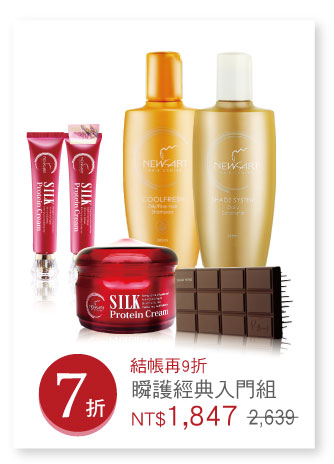
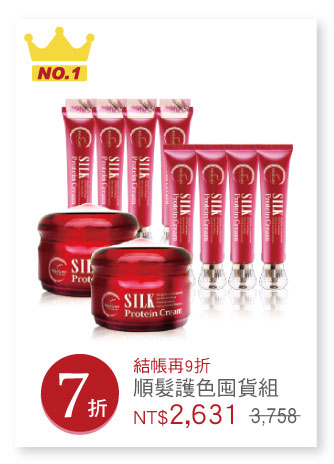
activity_1061106
1. 全面7折 組合商品換圖換網址

diff --git a/activity/js/header_v2.js b/activity/js/header_v2.js
@@ -55,7 +55,7 @@ $(function(){
 $(function(){
   var discount_obj = {
                         "gift_box_1" : {
-                                       "href_path" : "https://goo.gl/yuLtPr",
+                                       "href_path" : "https://goo.gl/FFqPNL",
                                        "img_path" : "images/1.jpg"
                                       },
                         "gift_box_2" : {
@@ -63,39 +63,39 @@ $(function(){
                                        "img_path" : "images/2.jpg"
                                       },
                         "gift_box_3" : {
-                                       "href_path" : "https://goo.gl/WrwKcr",
+                                       "href_path" : "https://goo.gl/XPRDhJ",
                                        "img_path" : "images/3.jpg"
                                       },
                         "gift_box_4" : {
-                                       "href_path" : "https://goo.gl/FFqPNL",
+                                       "href_path" : "https://goo.gl/S1qaQQ",
                                        "img_path" : "images/4.jpg"
                                       },
                         "gift_box_5" : {
-                                       "href_path" : "https://goo.gl/S1qaQQ",
-                                       "img_path" : "images/5.jpg"
+                                       "href_path" : "https://goo.gl/R8hLX9",
+                                       "img_path" : "images/5.png"
                                       },
                         "gift_box_6" : {
-                                       "href_path" : "https://goo.gl/mVgkrq",
-                                       "img_path" : "images/6.jpg"
+                                       "href_path" : "https://goo.gl/5tnQUa",
+                                       "img_path" : "images/6.png"
                                       },
                         "gift_box_7" : {
-                                       "href_path" : "https://goo.gl/UrFDBN",
+                                       "href_path" : "https://goo.gl/mVgkrq",
                                        "img_path" : "images/7.jpg"
                                       },
                         "gift_box_8" : {
-                                       "href_path" : "https://goo.gl/AZf4N6",
+                                       "href_path" : "https://goo.gl/UrFDBN",
                                        "img_path" : "images/8.jpg"
                                       },
                         "gift_box_9" : {
-                                       "href_path" : "https://goo.gl/THmvzV",
+                                       "href_path" : "https://goo.gl/yuLtPr",
                                        "img_path" : "images/9.jpg"
                                       },
                         "gift_box_10" : {
-                                       "href_path" : "https://goo.gl/sFh1sv",
+                                       "href_path" : "https://goo.gl/AZf4N6",
                                        "img_path" : "images/10.jpg"
                                       },
                         "gift_box_11" : {
-                                       "href_path" : "https://goo.gl/XPRDhJ",
+                                       "href_path" : "https://goo.gl/sFh1sv",
                                        "img_path" : "images/11.jpg"
                                       },
                         "gift_box_12" : {
@@ -589,7 +589,7 @@ $(function(){
   article_4_html += '<li class="col-xs-12 col-sm-6 m-t-5 m-b-5 p-r-5 p-l-5">'
   article_4_html += '<div class="line_button inner_box btn box_shadow_white">'
   article_4_html += '<img src="images/line_logo.png">'
-  article_4_html += '<a href="https://line.me/R/ti/p/%40ngq1692">加入LINE@得知最新消息</a>'
+  article_4_html += '<a href="https://line.me/R/ti/p/%40ngq1692g">加入LINE@得知最新消息</a>'
   article_4_html += '</div>'
   article_4_html += '</li>'
   article_4_html += '<li class="clear"></li>'
